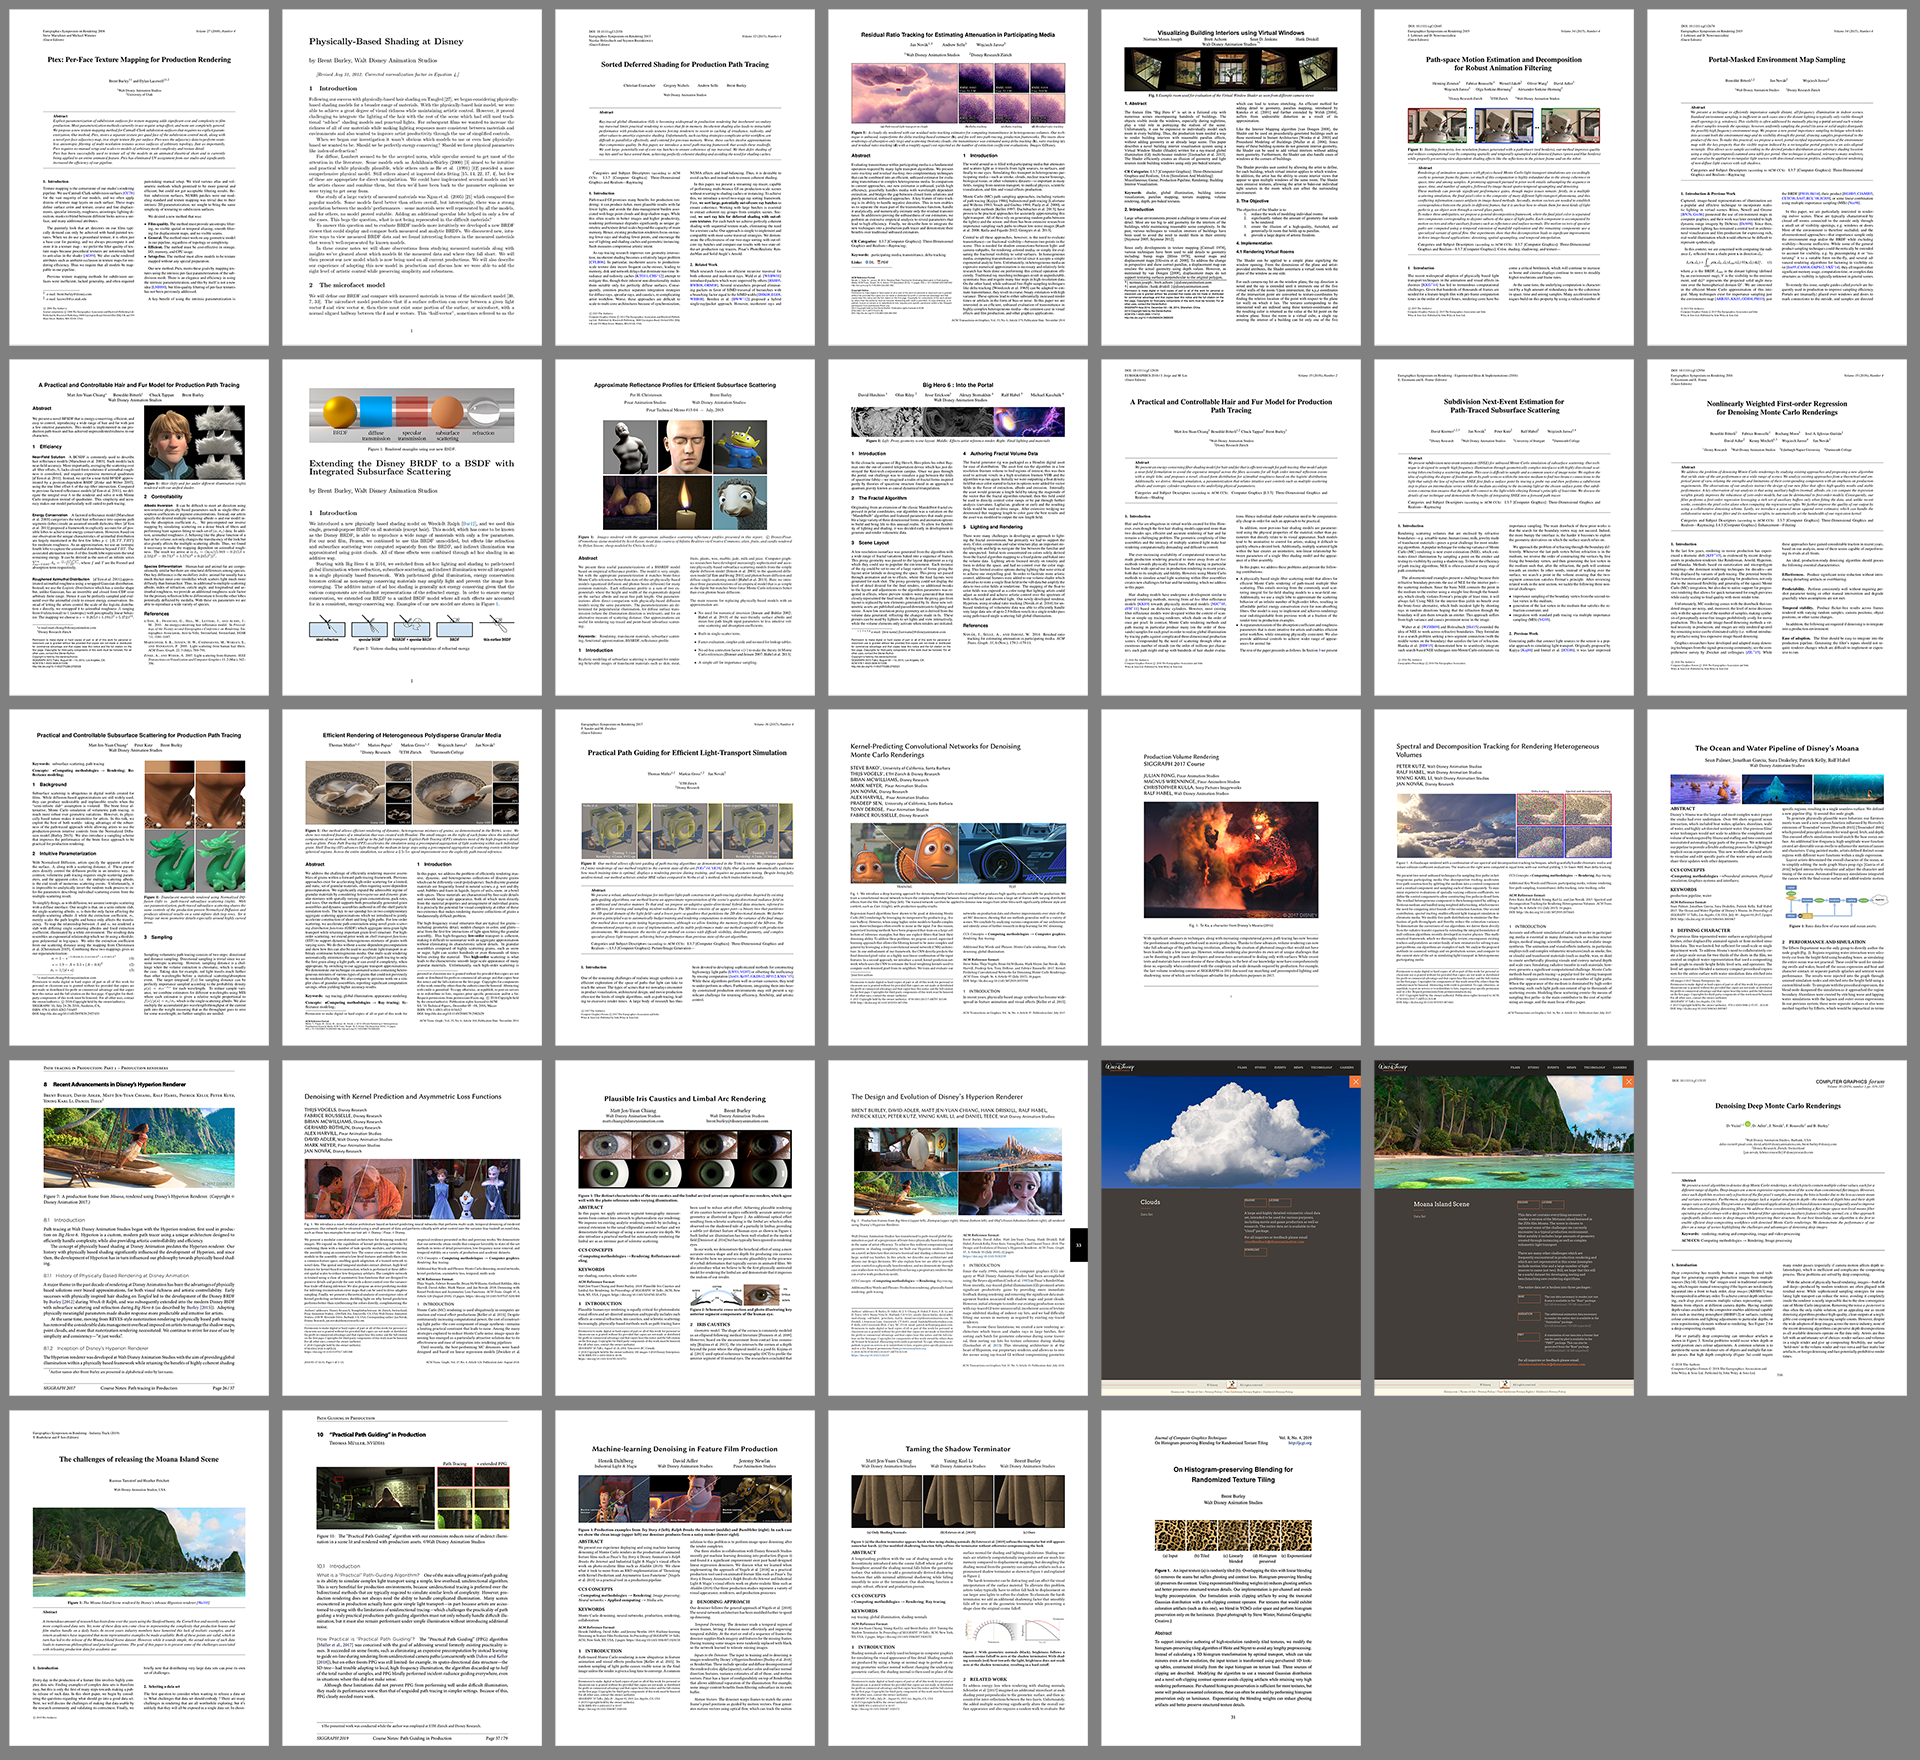
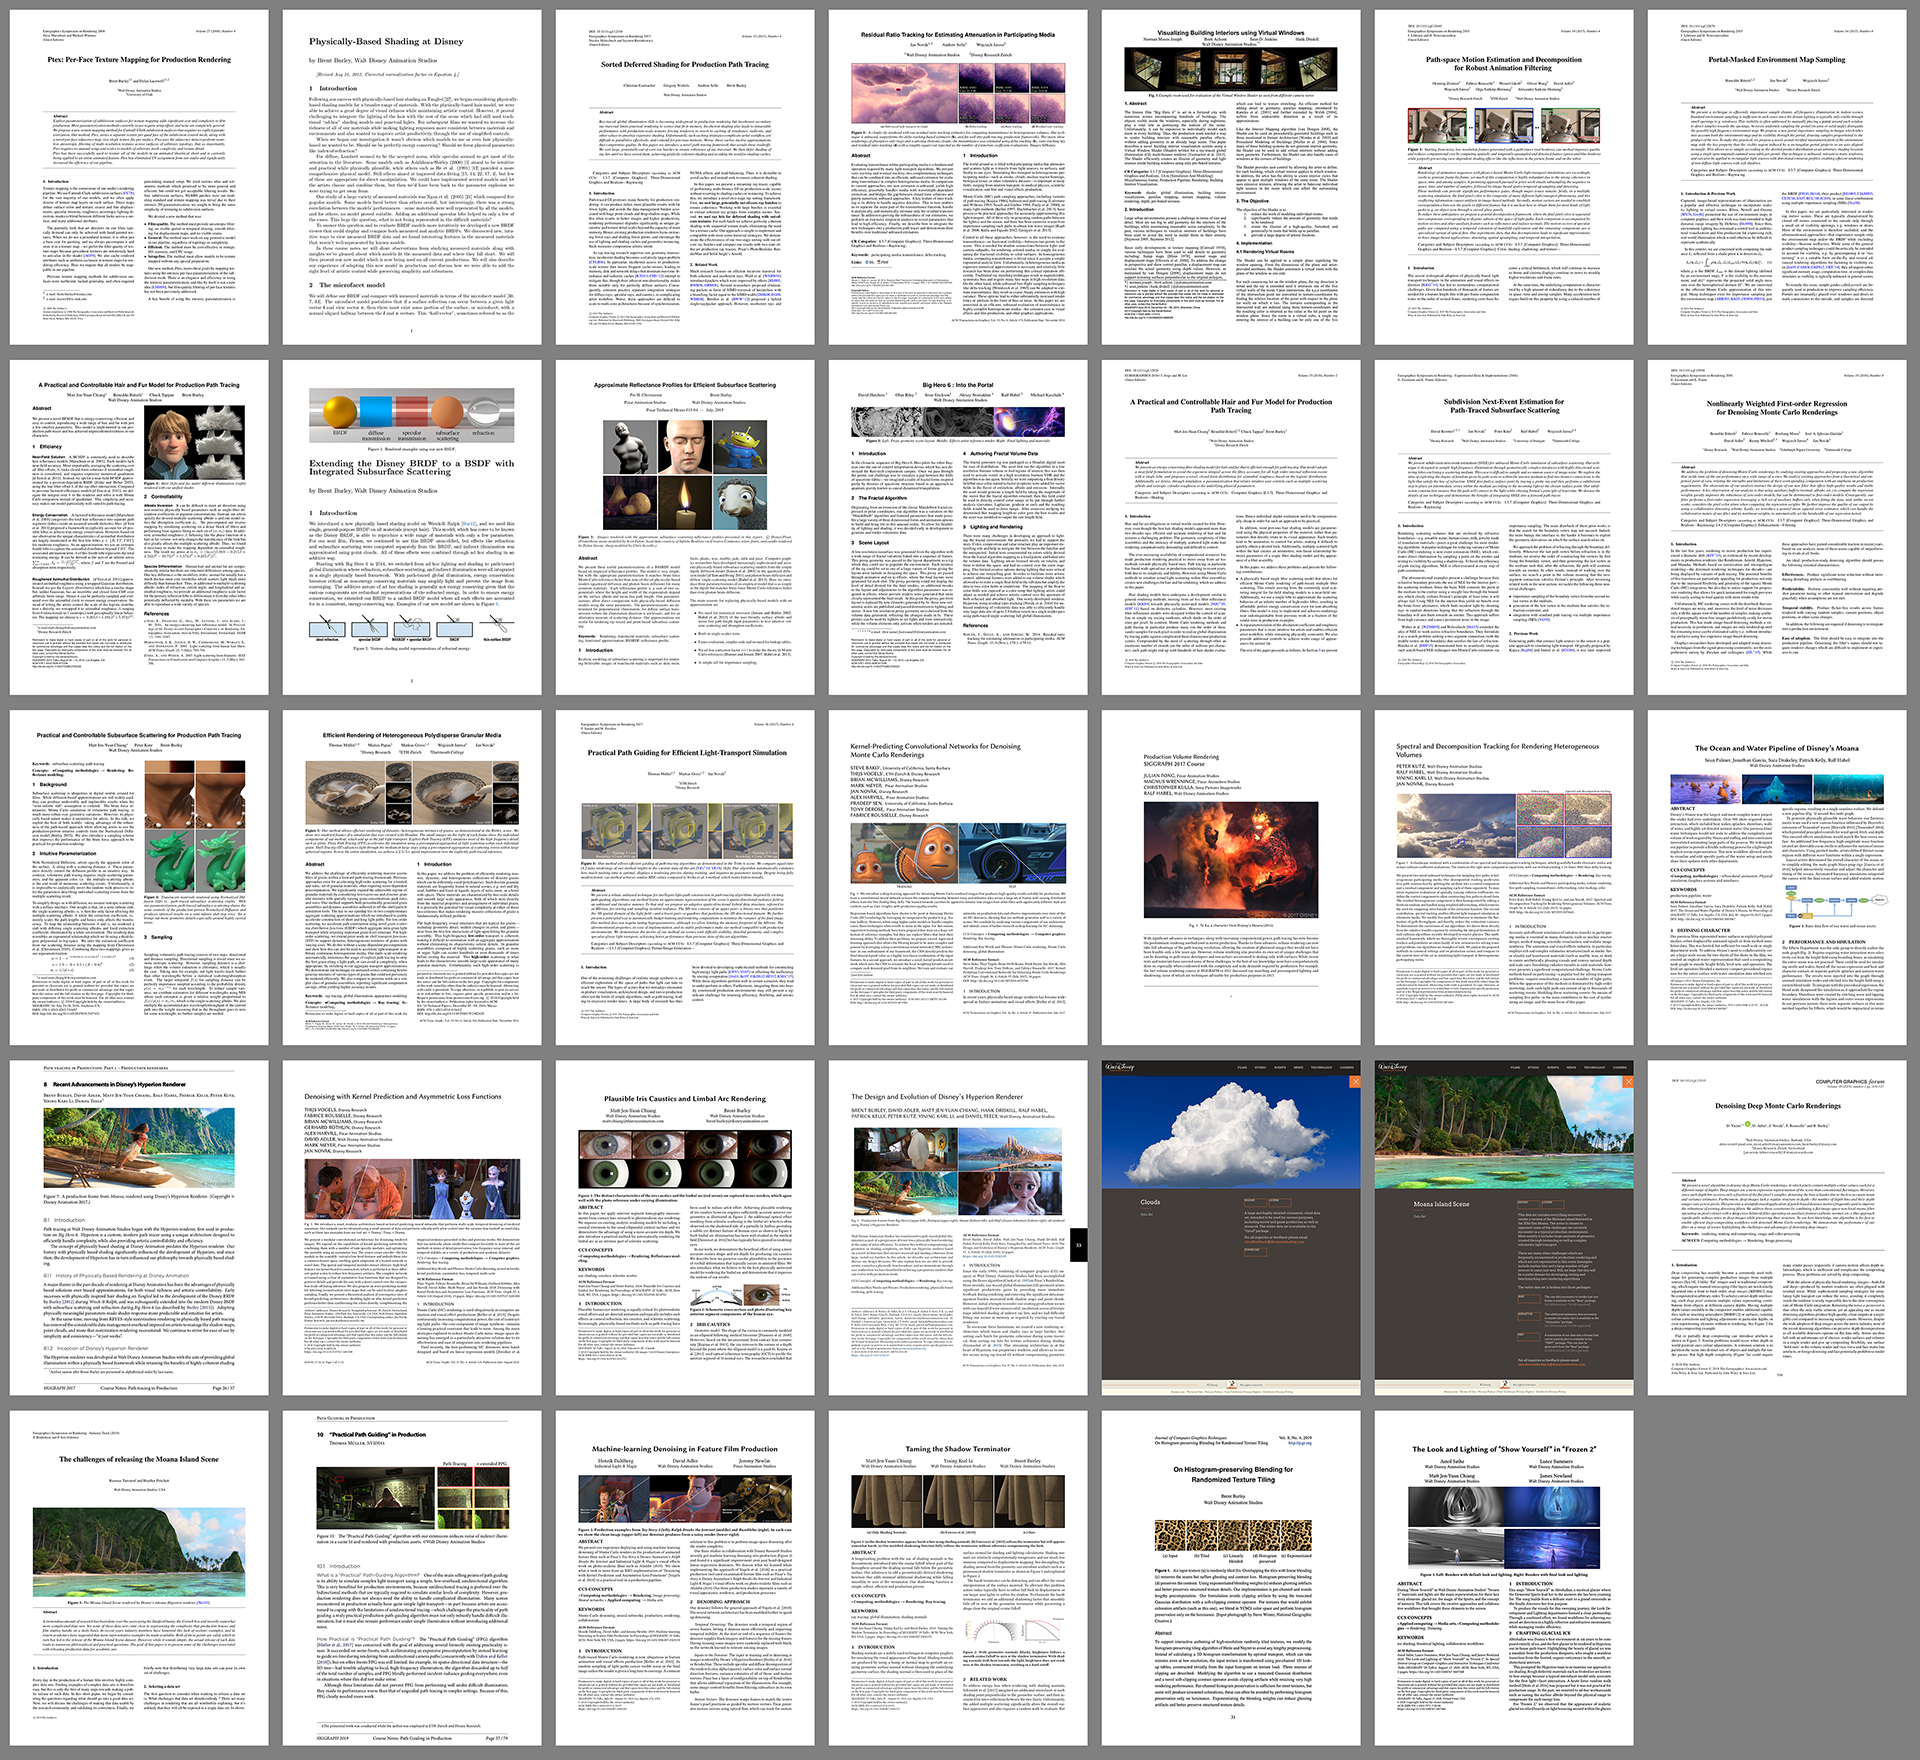
Update Hyperion papers post with Froz 2 Look/Lighting paper

Changed region(s): [[0.7188, 0.7812, 0.875, 1.0]]

diff --git a/_posts/2019-07-30-hyperion-papers.md b/_posts/2019-07-30-hyperion-papers.md
@@ -18,7 +18,7 @@ Without a doubt, Hyperion, and by extension, our movies, would not be what they 
 Of course, we also collaborate closely with our sister rendering teams at [Pixar Animation Studios](https://www.pixar.com) and [Industrial Light & Magic](https://www.ilm.com) as well, and there are numerous examples where collaboration between all of these teams has advanced the state of the art in rendering for the whole industry.
 
 So without further ado, below are all of the papers that the Hyperion team has published or worked on or had involvement with over the years, either by ourselves or with our counterparts at Disney Research Studios, Pixar, ILM, and other research groups.
-If you've ever been curious to learn more about Disney's Hyperion Renderer, here are 33 publications with a combined 391 pages of material!
+If you've ever been curious to learn more about Disney's Hyperion Renderer, here are 34 publications with a combined 393 pages of material!
 For each paper, I'll link to a preprint version, link to the official publisher's version, and link any additional relevant resources for the paper.
 I'll also give the citation information, give a brief description, list the teams involved, and note how the paper is relevant to Hyperion.
 This post is meant to be a living document; I'll come back and update it down the line with future publications. Publications are listed in chronological order.
@@ -343,6 +343,15 @@ This post is meant to be a living document; I'll come back and update it down th
     * [Official Publisher's Version](http://www.jcgt.org/published/0008/04/02/)
 
     Internal project from Disney Animation. This paper describes some modiciations to the histogram-preserving hex-tiling algorithm of Heitz and Neyret; these modifications make implementing the Heitz and Neyret technique easier and more efficient. This paper describes Hyperion's implementation of the technique, in use in production starting on *Frozen 2* through present.
+
+34. **The Look and Lighting of "Show Yourself" in "Frozen 2"**
+
+    [Amol Sathe](https://dl.acm.org/author/Sathe,%20Amol), [Lance Summers](https://dl.acm.org/author/Summers,%20Lance), [Matt Jen-Yuan Chiang](http://dl.acm.org/author_page.cfm?id=99658729701&coll=DL&dl=ACM&trk=0), and [James Newland](https://dl.acm.org/author/Newland,%20James). The Look and Lighting of "Show Yourself" in "Frozen 2". In *ACM SIGGRAPH 2020 Talks*, August 2020.
+
+    * [Preprint Version](https://drive.google.com/file/d/1XVyhzCP_RDusyrfrsKlR8hIuq0fs_WJF/edit)
+    * [Official Publisher's Version](https://doi.org/10.1145/3388767.3407388)
+
+    Internal project from Disney Animation. This paper describes some of the unusual challenges encountered in lighting the glacier environment from Frozen 2 using Hyperion, and includes a description of a new tabulation-based approach to microfacet multiple scattering implemented in Hyperion.
 
 [![Figure 2: Hyperion logo, modeled by Disney Animation artist Chuck Tappan and rendered in Disney's Hyperion Renderer.]({{site.url}}/content/images/2019/Jul/hyperion_logo.png)]({{site.url}}/content/images/2019/Jul/hyperion_logo.png)
 
